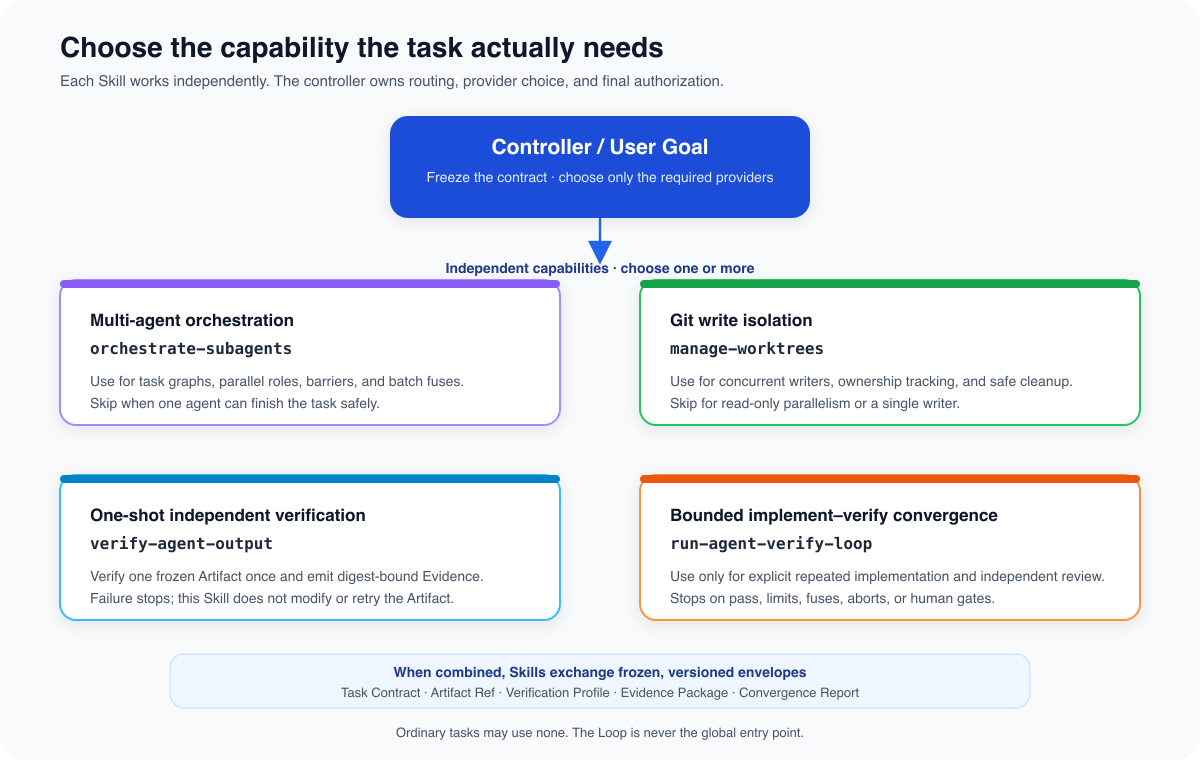
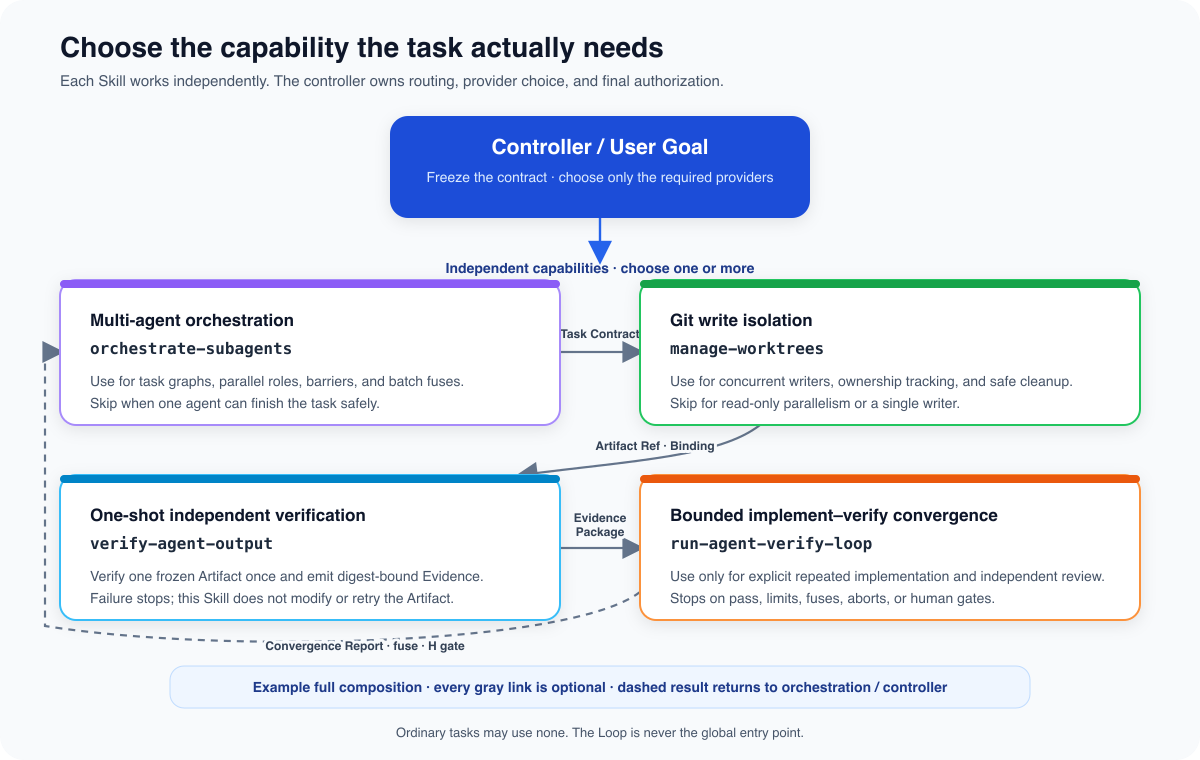
docs: restore skill composition flow

diff --git a/README.md b/README.md
@@ -8,11 +8,13 @@ A practical collection of reusable skills for agentic software engineering—fro
 
 ![Agent engineering skills selected and composed on demand](./docs/architecture/skill-collaboration.png)
 
-图中是四种可独立选择的能力，不是一条必须依次执行的流水线。普通任务可以一个也不用；组合使用时，
-Controller 仍负责路由、provider 选择和最终授权。
+蓝色表示 Controller 按需选择能力；灰色箭头展示完整组合时的可选契约流：Task Contract →
+Artifact Ref / Binding → Evidence Package → Convergence Report。它不是必须依次执行的流水线；普通任务
+可以一个也不用。组合使用时，Controller 仍负责路由、provider 选择和最终授权。
 
-The diagram shows independently selectable capabilities, not a mandatory pipeline. Ordinary tasks may use none;
-the controller retains routing, provider choice, and final authorization when skills are composed.
+Blue denotes controller routing. Gray arrows show an optional full-composition contract flow: Task Contract →
+Artifact Ref / Binding → Evidence Package → Convergence Report. This is not a mandatory pipeline; ordinary tasks
+may use none. The controller retains routing, provider choice, and final authorization when skills are composed.
 
 [Agent Skills 协作契约与安全边界 / Collaboration Contracts and Safety Boundaries（v1 · Pilot）](./docs/architecture/skill-system-architecture.md)
 
